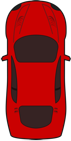
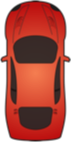
game updated

diff --git a/states/Game.js b/states/Game.js
@@ -17,8 +17,10 @@ Game.prototype = {
     this.enemycarposY = []; 
     this.enemycarposYIni = [];
     this.value = 2;
+    this.velocityCounter = 2;
     this.fueltank,
-    this.speedText
+    this.speedText,
+    this.enemycarVelocity = 400;
   },
 
   addMenuOption: function(text, callback) { 
@@ -82,6 +84,8 @@ Game.prototype = {
     this.enemycar = game.add.group();
     this.enemycar.enableBody = true; 
     this.enemycar.PhysicsBodyType = Phaser.Physics.ARCADE; 
+    
+
 
     // create oponent cars
     this.createEnemyCars();
@@ -114,9 +118,19 @@ Game.prototype = {
         var xvalue = this.enemycarposX[x+1]
         var yvalue = this.enemycarposY[x];
 
-            console.log(yvalue);
+            //console.log(yvalue);
         
-            this.alien = this.enemycar.create(xvalue, yvalue, 'enemy');
+            //this.alien = this.enemycar.create(xvalue, 390, 'enemy');
+
+            this.alien = game.add.sprite(xvalue, yvalue, 'enemycarsprite');
+
+            this.enemycar.add(this.alien);
+
+            this.frame = game.rnd.integerInRange(0, 1);
+
+            //console.log(this.frame);
+
+            this.alien.frame = this.frame;
 
             //alien.name = 'enemy' + x.toString() + y.toString();
             this.alien.body.setSize(56, 130, 0, 0);
@@ -132,13 +146,25 @@ Game.prototype = {
     yvalue = this.enemycarposY[game.rnd.integerInRange(0, 2)];
     //console.log(yvalue);
     alien.reset(xvalue, -141);
-    alien.body.velocity.y = 400; 
+    alien.body.velocity.y = this.enemycarVelocity; 
+    this.frame = game.rnd.integerInRange(0, 1);
+    alien.frame = this.frame;
+    console.log(this.frame);
+
+        if(score == this.velocityCounter*5){  
+          this.enemycarVelocity +=20; 
+          console.log('velocity up');
+          this.velocityCounter+=2;
+          console.log(this.enemycarVelocity);
+        } 
+
     //console.log(this.score);
     
     // score count
     score += 1;
     this.scoreText.text = 'Score: ' + score;
     //this.fuelText.text = 'Fuel: ' + fuel;
+    
   },
 
   update : function(){ 
@@ -163,31 +189,26 @@ Game.prototype = {
             if(score == this.value*5){  
               this.speed = this.speed+2;
               this.value+=2;
-              console.log(this.value);
-              console.log(this.speed);
+              //console.log(this.value);
+              //console.log(this.speed);
 
               this.speedText = game.add.text(game.world.centerX, 30, 'Speed Up', {font: 'bold TheMinion', fontSize: '24px', fill: '#fff' });
               this.speedText.anchor.setTo(0.5);
               this.game.time.events.add(Phaser.Timer.SECOND * 1, this.removeText, this);
 
 
-              console.log('speed up');
-              this.alien.body.velocity.y = 415; 
+              //console.log('speed up');
+              /*this.alien.body.velocity.y = 450; 
+              console.log(this.alien.body.velocity.y);*/
               fuel-=10;
             }
         }
 
         
         if(this.spaceKey.isDown){  
-             
-             //this.buttonPlay = game.add.button(game.world.centerX,100,"buttons", this.clickMe, this,70,0);
-             //this.buttonPlay.anchor.set(0.5,0.5);
-             if(game.paused){
-              // Unpause the game
-                game.paused = false 
-             }else{
-                game.paused = true; 
-             }
+             game.paused = true; 
+             this.buttonPlay = game.add.button(game.world.centerX,100,"buttons", this.clickMe, this,70,0);
+             this.buttonPlay.anchor.set(0.5,0.5); 
         }
 
         game.physics.arcade.collide(this.mycar, this.enemycar, this.onCollission); 

diff --git a/states/Splash.js b/states/Splash.js
@@ -20,7 +20,7 @@ Splash.prototype = {
 
 
   },
-  // varios freebies found from google image search
+  
   loadImages: function () {
     game.load.image('menu-bg', 'assets/images/menu-bg.jpg');
     game.load.image('options-bg', 'assets/images/options-bg.jpg');
@@ -30,6 +30,7 @@ Splash.prototype = {
     game.load.spritesheet('buttons', 'assets/images/buttonsprite.png',119,35);
     game.load.image('enemy', 'assets/images/enemycar.png');
     game.load.image('fueltank', 'assets/images/fueltank.png');
+    game.load.spritesheet('enemycarsprite', 'assets/images/enemycar-sprite.png', 73,141,3);
   },
 
 

diff --git a/index.html b/index.html
@@ -2,7 +2,7 @@
 <html lang="en">
 <head>
     <meta charset="UTF-8">
-    <title></title>
+    <title>Road Fighter</title>
     <style type="text/css">
     	body{
     		background: #000;
